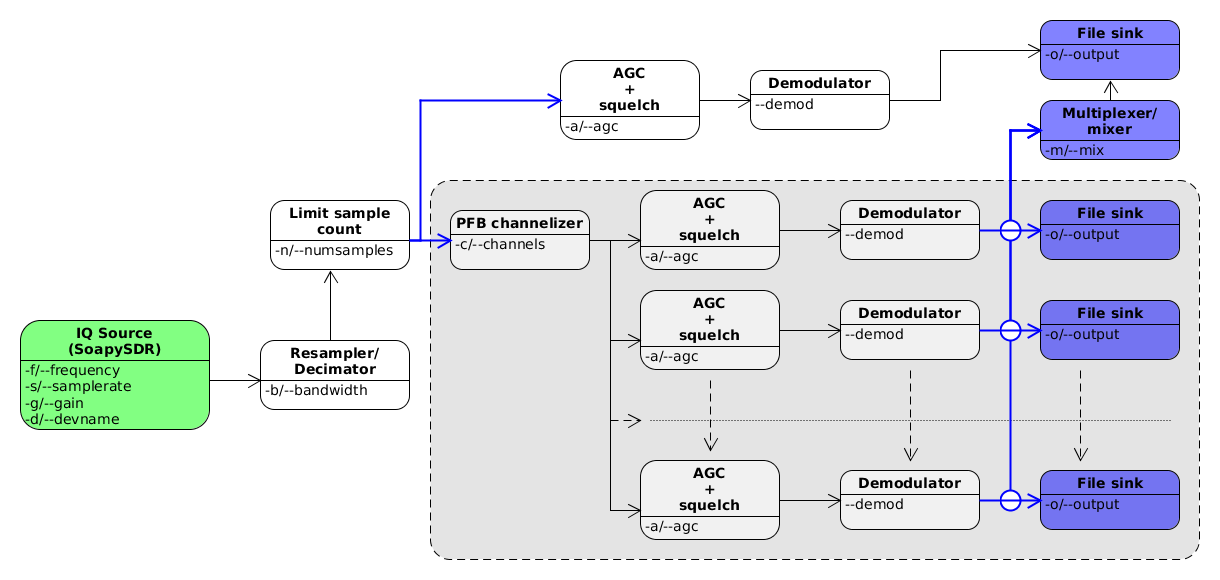
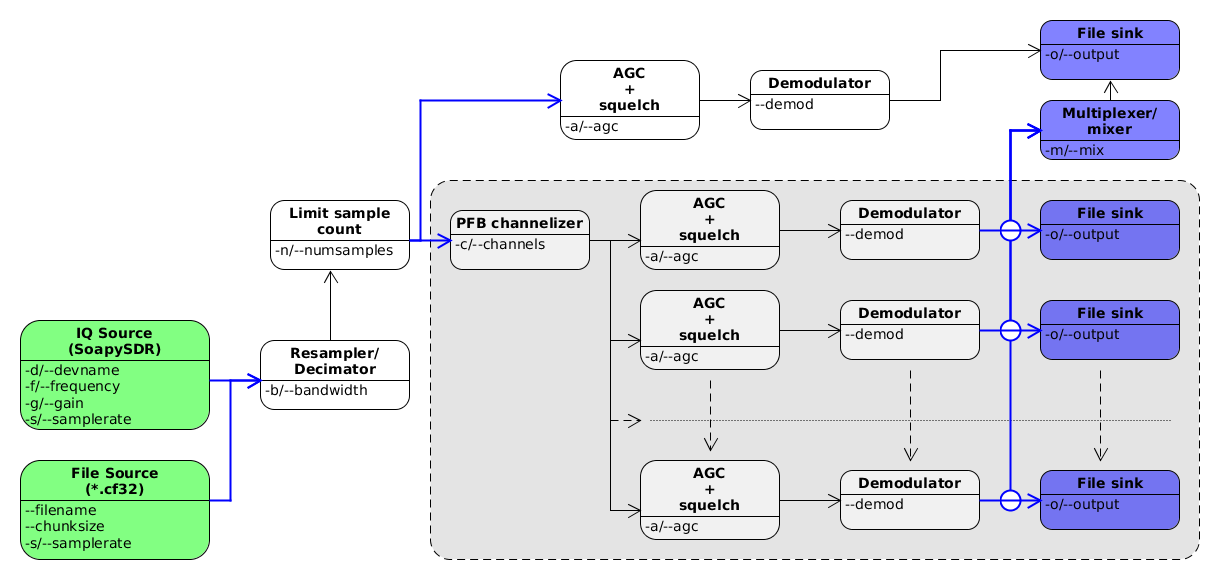
Adde file source support

diff --git a/README.md b/README.md
@@ -52,23 +52,25 @@ I/Q recorder and processor using SoapySDR as backend.
 ![soapy-sdr](images/soapy-sdr.png)
 
 ```
-Usage: soapy-sdr [-f|--frequency DOUBLE] [-s|--samplerate DOUBLE] 
-                 [-g|--gain DOUBLE] [-b|--bandwidth DOUBLE] 
-                 [-n|--numsamples INT] [-o|--output FILENAME] 
-                 [-d|--devname NAME] [--demod ARG] [-a|--agc DOUBLE] 
-                 [-c|--channels INT] [-m|--mix]
+Usage: soapy-sdr [--filename NAME [--chunksize INT] | [--devname NAME] 
+                   [-f|--frequency DOUBLE] [-g|--gain DOUBLE]] 
+                 [-s|--samplerate DOUBLE] [-b|--bandwidth DOUBLE] 
+                 [-n|--numsamples INT] [-o|--output FILENAME] [--demod ARG] 
+                 [-a|--agc DOUBLE] [-c|--channels INT] [-m|--mix]
   Process samples from an SDR retrieved via SoapySDR
 
 Available options:
+  --filename NAME          Input (CF32) file name
+  --chunksize INT          Chunk size ins CF32 sample (default: 1024)
+  --devname NAME           Soapy device/driver name (default: "rtlsdr")
   -f,--frequency DOUBLE    Rx frequency in Hz (default: 1.0e8)
-  -s,--samplerate DOUBLE   Sample rate in Hz (default: 2560000.0)
   -g,--gain DOUBLE         SDR gain level (0 = auto) (default: 0.0)
+  -s,--samplerate DOUBLE   Sample rate in Hz (default: 2560000.0)
   -b,--bandwidth DOUBLE    Desired output bandwidth in [Hz] (0 = samplerate = no
                            resampling/decimation) (default: 0.0)
   -n,--numsamples INT      Number of samples to capture (default: 1024)
   -o,--output FILENAME     Output file(s) name (without
                            extension) (default: "output")
-  -d,--devname NAME        Soapy device/driver name (default: "rtlsdr")
   --demod ARG              Demodulation type (default: DeNo)
   -a,--agc DOUBLE          Enable AGC with squelch threshold in [dB] (0 = no
                            AGC) (default: 0.0)
@@ -77,10 +79,11 @@ Available options:
   -m,--mix                 Instead of outputting separate file for each channel,
                            mix them into one
   -h,--help                Show this help text
-
 ```
 
-Blue arrows a choices in signal flow. First choice is usage channelizer.
+Blue arrows a choices in signal flow. First choice the data source:
+SoapySDR compatible SDR receiver, or a CF32 samples file.
+Next choice is usage of the PFB channelizer.
 If it's enabled, then the output signals can be written
 to separate files, or mixed together and written into one file.
 The raw/modulated signal output file format is CF32.
@@ -178,6 +181,22 @@ ends up 6400000 bytes long. One CF32 sample is 8 bytes, so at 3.2MSPS we're capt
 Then processing it and saving around 122MB in 10 seconds.
 
 ![ex1_5](images/ex1_5.gif)
+
+#### Example 4
+
+Capturing raw CF32 IQ samples file and demodulating offline.
+
+Capturing to file `input.cf32`:
+
+```sh
+cabal v2-run -- soapy-sdr -n 2000000 -f 92.0e6 -b 192000 --demod "DeNo" -o input
+```
+
+Demodulating captured file (remember, samplerate is the bandwidth of the previous command):
+
+```sh
+cabal v2-run -- soapy-sdr --filename input.cf32 -n 2000000 -s 192000 --demod "DeWBFM 4 WAV"
+```
 
 ## TODO
   - [ ] add live playback via PulseAudio
